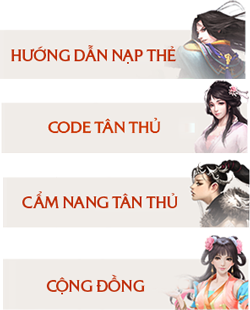
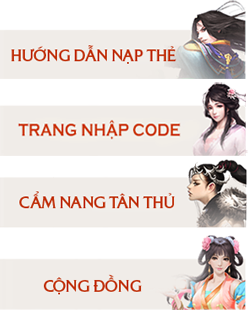
thinhnd - fix issue Frame 1, Frame3, Frame 6

diff --git a/components/Frame1.js b/components/Frame1.js
@@ -1,4 +1,5 @@
 import { PureComponent, Fragment } from 'react'
+import SoundCloudPlayer from 'react-soundcloud-player'
 import { Link } from '../routes'
 
 import AnimatedNumber from 'react-animated-number';
@@ -40,6 +41,11 @@ export default class Frame1 extends PureComponent {
 		const { toggleModal, totalUsers } = this.props
 		return (
 			<Fragment>
+				{/* <SoundCloudPlayer
+					client_id="c5a171200f3a0a73a523bba14a1e0a29"
+					audio_id="591348249"
+					title="VNG-Tân Thiên Long Mobile" /> */}
+
 				<Styled.Logo alt='Tân Thiên Long - http://ttlm.zing.vn' src={`${this.staticImgPath}/game_logo.png`} />
 				<Styled.FrameContent>
 					<Styled.Title className={`${showTitle ? '' : 'hidden'}`} alt='Tuyệt tác kiếm hiệp Kim Dung' src={`${this.staticImgPath}/f1_title.png`} />

diff --git a/components/Frame6.js b/components/Frame6.js
@@ -69,9 +69,9 @@ export default class Frame6 extends PureComponent {
 							<Link route='/thong-tin/huong-dan-nap-the'>
 								<a className='guide-link huong-dan-nap-the'></a>
 							</Link>
-							<Link route='/thong-tin/code-tan-thu'>
-								<a className='guide-link code-tan-thu'></a>
-							</Link>
+
+							<a href='http://new.khuyenmai.zing.vn/ttlm/code' target='_blank' className='guide-link code-tan-thu'></a>
+
 							<Link route='/thong-tin/cam-nang-tan-thu'>
 								<a className='guide-link cam-nang-tan-thu'></a>
 							</Link>

diff --git a/components/Frame3.js b/components/Frame3.js
@@ -52,7 +52,7 @@ export default class Frame3 extends PureComponent {
 			<Fragment>
 				<div>
 					<div className='frame-title'>
-						<img src='/static/img/title_he_thong_ban_do.png' />
+						<img src='/static/img/title_he_thong_nhan_vat.png' />
 					</div>
 					<div className='stage'>
 						<img className={`content-img ${isHide ? 'hide' : 'show'}`} src={`http://ttlm.zing.vn${activeItem.content}`} />

diff --git a/static/apiConst.js b/static/apiConst.js
@@ -1,6 +1,6 @@
 // const HOST = (isInternal = false) => isInternal ? 'http://ttlm.zing.vn/api' : 'http://ttlm.zing.vn/api'
 
-const HOST = (isInternal = false) => isInternal ? 'http://api' : 'http://ttlm.zing.vn/api'
+const HOST = (isInternal = false) => isInternal ? 'http://api' : 'http://gitttlm.zing.vn/api'
 
 
 const apiConst = {
